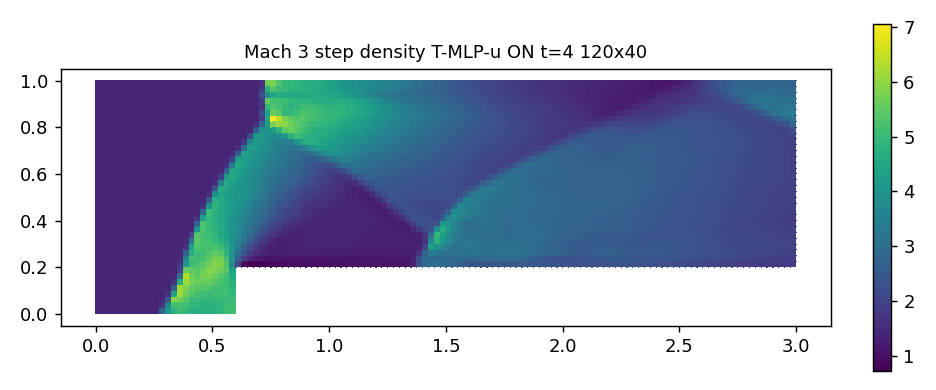
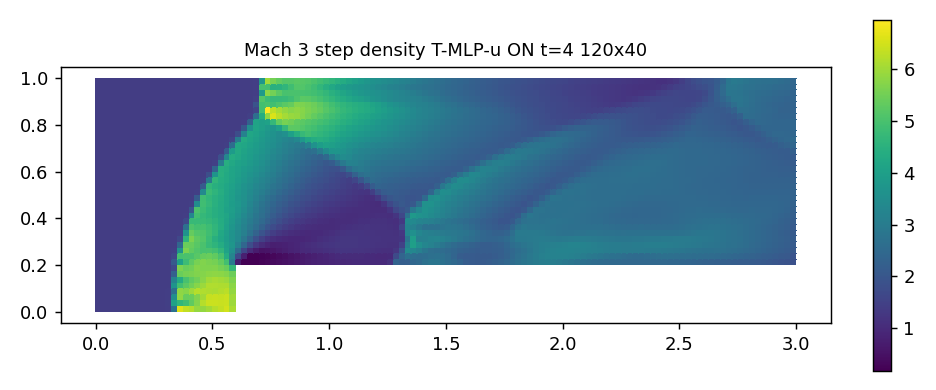
experiment: improve shock benchmark T-MLP-u stencil evidence

diff --git a/solver/solve_T-MLP-u/tests/test_2d_tmlpu_paper_benchmarks.py b/solver/solve_T-MLP-u/tests/test_2d_tmlpu_paper_benchmarks.py
@@ -265,12 +265,12 @@ def _tmlpu_off_leveque():
 
 def _tmlpu_euler():
     return TMLPU(tvd='superbee', mlp_bound=True, extremum_relax=False,
-                 virtual_uu_gradient=True, stencil='vertex', order=1)
+                 virtual_uu_gradient=True, stencil='face', order=1)
 
 
 def _tmlpu_off_euler():
     return TMLPU(tvd='superbee', mlp_bound=False, extremum_relax=False,
-                 virtual_uu_gradient=True, stencil='vertex', order=1)
+                 virtual_uu_gradient=True, stencil='face', order=1)
 
 
 def _comparison_suite(kind):
